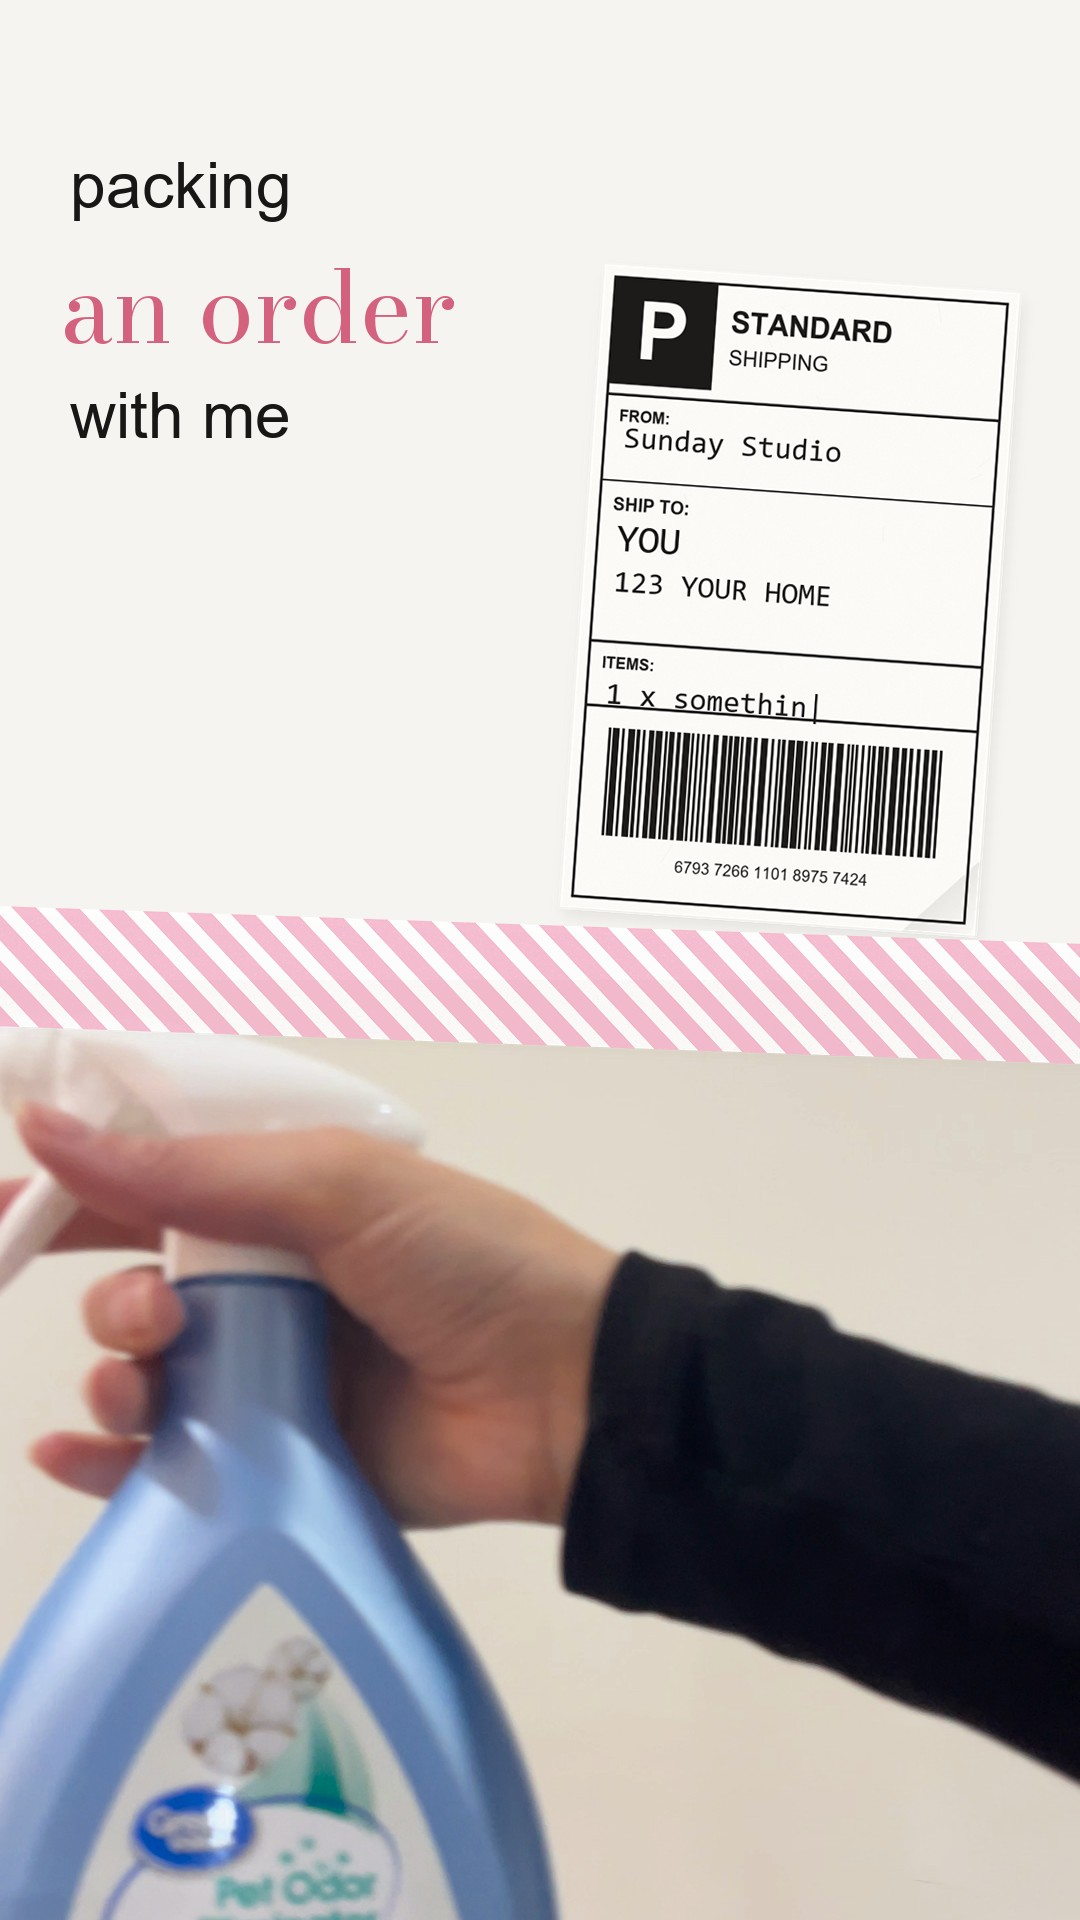
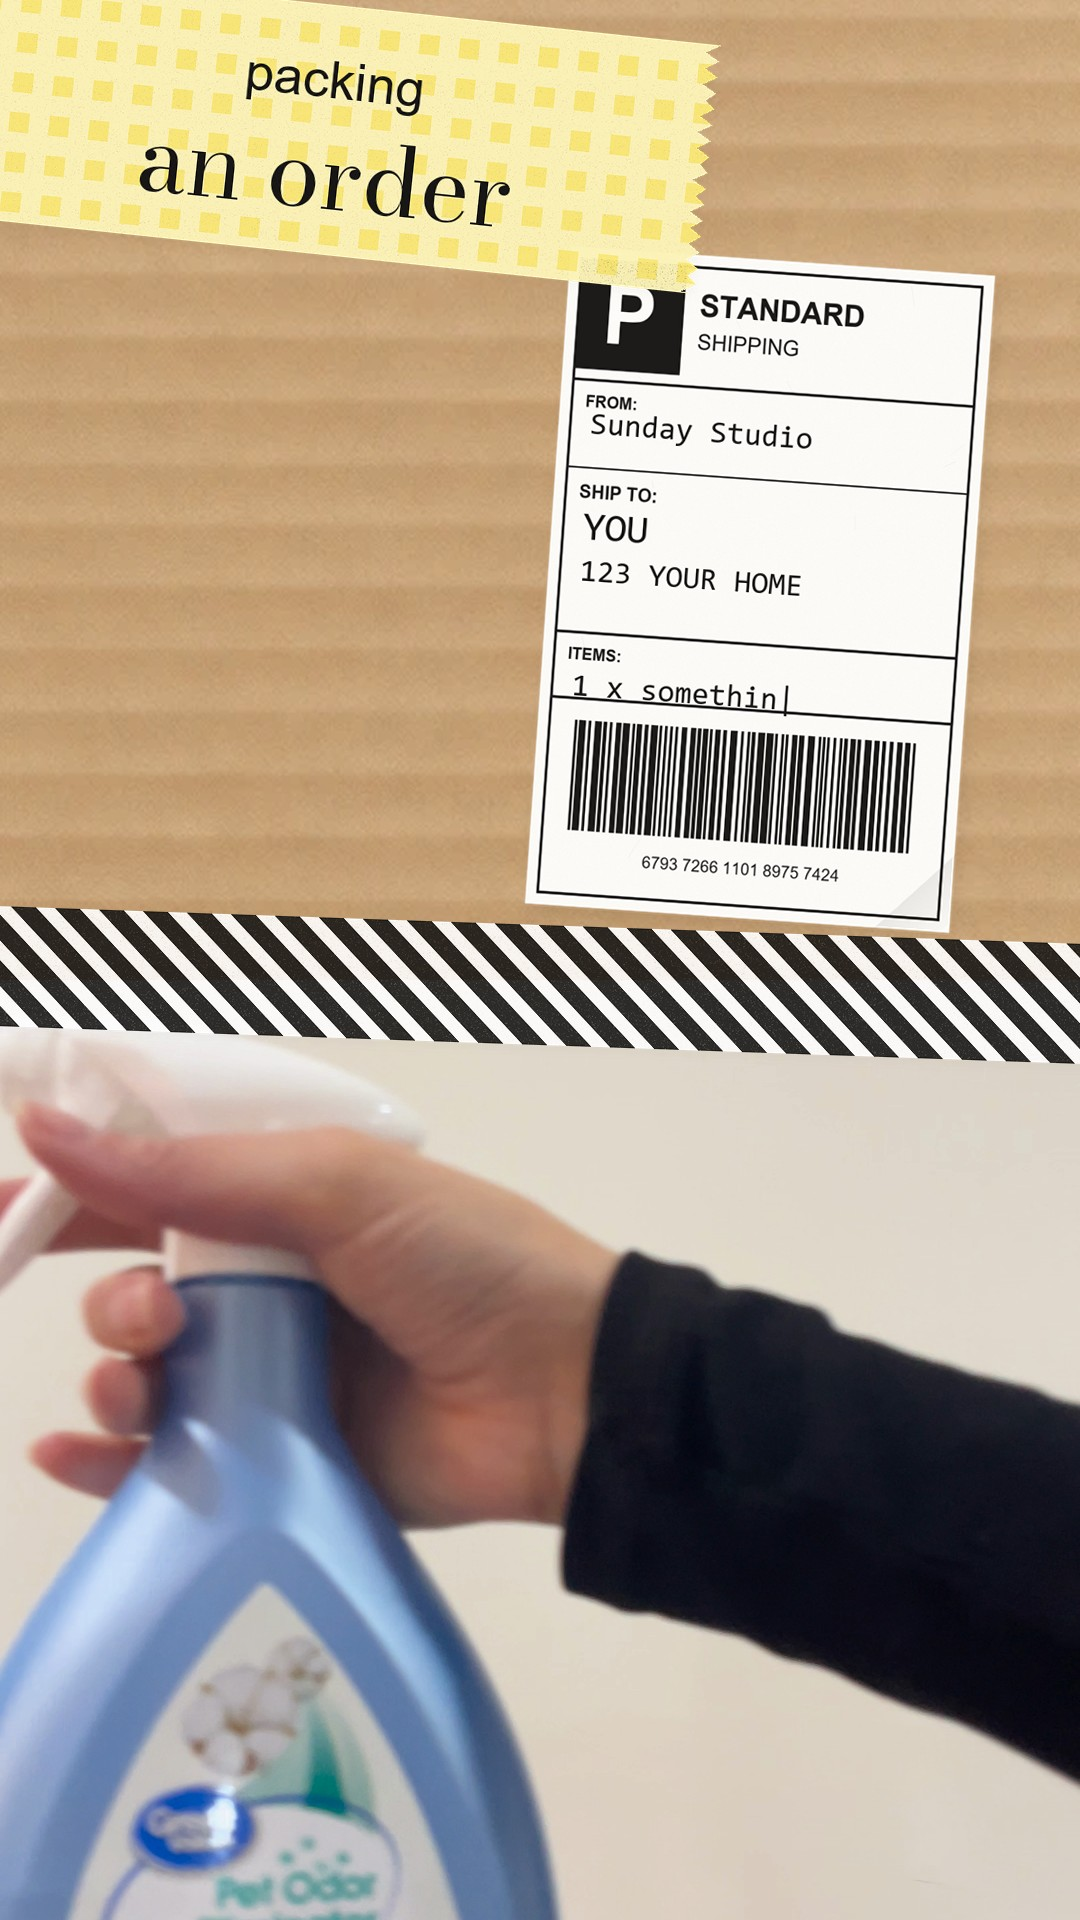
Reel Template Packs: #2 storyboard v3 (sage backdrop, bigger box, bold peanut outlines, seam tape, no pink washi, label on cardboard)

diff --git a/automation/reel-template-pack/build/storyboard_02.py b/automation/reel-template-pack/build/storyboard_02.py
@@ -14,6 +14,8 @@ OUT = E.PACK / '02-pack-an-order' / 'storyboard'; OUT.mkdir(parents=True, exist_
 PROPS = E.PACK / 'assets' / 'props'
 W, H = 1080, 1920
 ROSE = (212, 98, 127); INK = (24, 23, 22); WHITE = (255, 255, 255)
+BG = (199, 209, 187, 255)          # soft sage backdrop (not white)
+BLUE, BUTTER, SAGE, COBALT, TOMATO = (166, 206, 242), (250, 232, 120), (190, 214, 170), (52, 86, 196), (228, 88, 56)
 SANS, SERIF, MONO = 'C:/Windows/Fonts/arial.ttf', E.font_file('7580184437816675601'), 'C:/Windows/Fonts/consola.ttf'
 HAND = E.INKFREE
 TONE = 'zscale=t=linear:npl=100,format=gbrpf32le,zscale=p=bt709,tonemap=hable:desat=0,zscale=t=bt709:m=bt709:r=tv,format=yuv420p'
@@ -38,10 +40,11 @@ def word(img, xy, text, font, fill, anchor='la', shadow=False):
 
 def tape_words(img, c, small, big, rot=-3):
     """Words on a strip of white paper tape stuck to the box: small sans line + accent serif line."""
-    strip = C.torn_strip((720, 250), (252, 250, 246), seed=17, edges='lr')
+    strip = C.washi(760, 250, 'gingham', (BUTTER, WHITE), seed=17, alpha=250)
     d = ImageDraw.Draw(strip)
-    d.text((360, 62), small, font=F(SANS, 52), fill=INK, anchor='mm'); d.text((360, 158), big, font=F(SERIF, 96), fill=ROSE, anchor='mm')
-    place(img, C.shadow(strip, offset=(4, 8), blur=8, alpha=60), c, rot)
+    cx = strip.width / 2; cy = strip.height / 2
+    d.text((cx, cy - 50), small, font=F(SANS, 52), fill=INK, anchor='mm'); d.text((cx, cy + 44), big, font=F(SERIF, 96), fill=INK, anchor='mm')
+    place(img, strip, c, rot)
 
 def place(img, item, c, rot=0):
     it = item.rotate(rot, expand=True, resample=Image.BICUBIC)
@@ -62,7 +65,7 @@ def bordered(item, inner=WHITE, outer=ROSE, w1=14, w2=10):
 # ---- the open white box, turned upright to fill the frame, with its floor as a video spot ---------------------------------
 def open_box(colour='white'):
     box = prop(f'box-open-{colour}').rotate(-90, expand=True)           # landscape photo -> upright
-    s = 1.3 * W / box.width; box = box.resize((int(box.width * s), int(box.height * s)))
+    s = 1.6 * W / box.width; box = box.resize((int(box.width * s), int(box.height * s)))
     y0 = (H - box.height) // 2; xo = (W - box.width) // 2   # bigger than the frame: flaps run off the edges
     full = Image.open(PROPS / 'source' / 'box-open-top.webp')           # floor rect, measured on the source photo
     fx0, fy0, fx1, fy1 = 322, 262, 1132, 752; ph = full.height
@@ -79,7 +82,7 @@ def C_bbox_offset():
     return bb[0], bb[1]
 
 def box_scene(video, colour='kraft', floor_pad=0):
-    canvas = Image.new('RGBA', (W, H), (246, 244, 240, 255))
+    canvas = Image.new('RGBA', (W, H), BG)
     box, (xo, y0), fl = open_box(colour)
     x0, y1_, x1, y2 = fl
     canvas.alpha_composite(ImageOps.fit(video, (x1 - x0, y2 - y1_)), (x0, y1_))   # the clip on the box floor
@@ -91,18 +94,19 @@ def box_scene(video, colour='kraft', floor_pad=0):
 # ---- the frames ------------------------------------------------------------------------------------------------------------
 def f1():
     """The label types itself in (top) while the video picks the items (bottom); washi tape on the seam."""
-    im = Image.new('RGBA', (W, H), (246, 244, 240, 255))
+    im = Image.new('RGBA', (W, H), BG)
+    cb = prop('box-closed-top'); bb = cb.split()[3].point(lambda v: 255 if v > 250 else 0).getbbox()
+    cb = cb.crop((bb[0] + 40, bb[1] + 40, bb[2] - 40, bb[3] - 40)).convert('RGB').convert('RGBA')   # just the cardboard
+    im.alpha_composite(ImageOps.fit(cb, (W, 1000)), (0, 0))      # the label sits on real cardboard, edge to edge
     im.alpha_composite(footage('IMG_1439', 1.0, (W, 940)), (0, 980))
     lab = C.ship_label().resize((520, 780))
     d = ImageDraw.Draw(lab); m = F(MONO, 34)
     d.text((60, 205), 'Sunday Studio', font=m, fill=INK)
     d.text((60, 315), 'YOU', font=F(MONO, 44), fill=INK); d.text((60, 368), '123 YOUR HOME', font=m, fill=INK)
     d.text((60, 495), '1 x somethin|', font=m, fill=INK)
-    lab = lab.resize((460, 690)); place(im, lab, (790, 600), -4)
-    word(im, (70, 150), 'packing', F(SANS, 64), INK)
-    word(im, (60, 230), 'an order', F(SERIF, 100), ROSE)
-    word(im, (70, 380), 'with me', F(SANS, 64), INK)
-    place(im, C.washi(1300, 120, 'stripes', ((246, 182, 205), WHITE), seed=3), (540, 985), -2)
+    lab = lab.resize((470, 705)); place(im, lab, (760, 590), -4)
+    tape_words(im, (330, 130), 'packing', 'an order', -6)
+    place(im, C.washi(1300, 120, 'stripes', (INK, WHITE), seed=3), (540, 985), -2)
     return im
 
 def f2():
@@ -114,11 +118,11 @@ def f2():
 def f3():
     """One packing peanut drops in, with a colourful border."""
     im, fl = box_scene(footage('IMG_1439', 2.6, (W, H)))
-    pea = bordered(prop('packing-peanut').resize((360, 360)))
+    pea = bordered(prop('packing-peanut').resize((360, 360)), BUTTER, INK, 14, 8)
     place(im, pea, (560, 980), -14)
     d = ImageDraw.Draw(im)
     for k in range(3): d.line((470 + 60 * k, 640, 470 + 60 * k, 740), fill=INK + (255,), width=6)   # motion ticks
-    word(im, (W / 2, 1650), '+ a little padding', F(HAND, 64), INK, anchor='ma')
+    tape_words(im, (W / 2, 1740), '+ a little', 'padding', 3)
     return im
 
 def recolour(img, tint):
@@ -129,18 +133,22 @@ def f4():
     """Peanuts take over the screen (the transition)."""
     im, fl = box_scene(footage('IMG_1439', 2.6, (W, H)))
     r = random.Random(4); pea = prop('packing-peanut')
-    tints = [None, None, (246, 182, 205), (250, 232, 140), (200, 190, 245), None]
+    tints = [None, None, None, (250, 250, 246), (250, 232, 140), None, (250, 250, 246)]
+    styles = [(WHITE, INK, 12, 8), (BUTTER, INK, 14, 6), (WHITE, COBALT, 12, 10), (INK, WHITE, 6, 10),
+              (WHITE, TOMATO, 12, 10), (SAGE, INK, 12, 6), (WHITE, None, 16, 0)]
     for k in range(70):
         s = r.randint(230, 380); p = pea.resize((s, s))
         t = tints[k % len(tints)]
         if t: p = recolour(p, t)
-        if k % 9 == 0: p = bordered(p)
+        if k % 2 == 0:
+            inner, outer, w1, w2 = styles[(k // 2) % len(styles)]
+            p = bordered(p, inner, outer or inner, w1, max(1, w2))
         place(im, p, (r.randint(-60, W + 60), r.randint(-60, H + 60)), r.randint(0, 359))
     return im
 
 def f5(seal_in=False):
     """The little extra: pink shreds fill the box around a smaller video spot; the thank-you envelope slides in."""
-    im = Image.new('RGBA', (W, H), (246, 244, 240, 255))
+    im = Image.new('RGBA', (W, H), BG)
     box, (xo, y0), fl = open_box('kraft'); x0, y1_, x1, y2 = fl
     shreds = ImageOps.fit(white_shreds(), (x1 - x0, y2 - y1_))
     im.alpha_composite(shreds, (x0, y1_))
@@ -179,7 +187,7 @@ def closed_box_with_tape():
 
 def f6():
     """Sealed: the flaps have closed over the video, washi tape and the label are on."""
-    im = Image.new('RGBA', (W, H), (246, 244, 240, 255))
+    im = Image.new('RGBA', (W, H), BG)
     place(im, closed_box_with_tape(), (540, 1080))
     word(im, (70, 150), 'sealed +', F(SANS, 64), INK)
     word(im, (60, 230), 'on its way', F(SERIF, 110), ROSE)
@@ -187,13 +195,13 @@ def f6():
 
 def f7():
     """CTA: the same sealed box shrinks and slides partly off-screen, the focus moves to the product name."""
-    im = Image.new('RGBA', (W, H), (246, 244, 240, 255))
+    im = Image.new('RGBA', (W, H), BG)
     sealed = f6b(words=False, bg=(0, 0, 0, 0)); box_only = sealed.crop(sealed.getbbox())
     box_only = box_only.resize((int(box_only.width * 0.62), int(box_only.height * 0.62)))
     place(im, C.shadow(box_only, offset=(10, 16), blur=18, alpha=70), (300, 1500), -16)
-    word(im, (W / 2, 330), 'Spray cleaner', F(SERIF, 120), ROSE, anchor='ma')
+    place(im, C.washi(980, 300, 'gingham', (BUTTER, WHITE), seed=11, alpha=250), (W / 2, 450), -3)
+    word(im, (W / 2, 350), 'Spray cleaner', F(SERIF, 120), INK, anchor='ma')
     word(im, (W / 2, 500), 'shop at the link in my bio', F(SANS, 50), INK, anchor='ma')
-    place(im, C.washi(560, 90, 'gingham', ((250, 232, 120), WHITE), seed=11), (W / 2, 610), -3)
     return im
 
 
@@ -214,7 +222,7 @@ def _fold_piece(flap, edge, theta):
         a = piece.split()[3]; piece = piece.convert('RGB').point(lambda v: int(v * 0.86)).convert('RGBA'); piece.putalpha(a)
     return piece
 
-def box_state(video, short_deg=15, long_deg=15, bg=(246, 244, 240, 255)):
+def box_state(video, short_deg=15, long_deg=15, bg=BG):
     """The kraft box (landscape, as photographed) with the clip on its floor and the flaps at the given angles,
     then turned upright and scaled to fill the frame like open_box()."""
     cut = prop('box-open-kraft'); ox, oy = C_bbox_offset()
@@ -239,7 +247,7 @@ def box_state(video, short_deg=15, long_deg=15, bg=(246, 244, 240, 255)):
             ImageDraw.Draw(m).rectangle((pos[0] + 10, pos[1] + 14, pos[0] + p.width + 10, pos[1] + p.height + 14), fill=110)
             sh.putalpha(m.filter(ImageFilter.GaussianBlur(16))); land.alpha_composite(sh)
         land.alpha_composite(p, (int(pos[0]), int(pos[1])))
-    up = land.rotate(-90, expand=True); s = 1.3 * W / up.width
+    up = land.rotate(-90, expand=True); s = 1.6 * W / up.width
     up = up.resize((int(up.width * s), int(up.height * s)))
     canvas = Image.new('RGBA', (W, H), bg)
     canvas.alpha_composite(up, ((W - up.width) // 2, (H - up.height) // 2))
@@ -251,11 +259,12 @@ def f6a():
     tape_words(im, (W / 2, 160), 'all', 'tucked in', -2)
     return im
 
-def f6b(words=True, bg=(246, 244, 240, 255)):
+def f6b(words=True, bg=BG):
     """Closed: washi tape zips across the seam, the label slaps on."""
     im = box_state(footage('IMG_1447', 1.0, (W, H)), 180, 180, bg)
-    place(im, C.washi(1150, 140, 'dots', ((166, 206, 242), WHITE), seed=8), (540, 900), 82)
-    place(im, C.washi(1150, 140, 'hearts', (WHITE, ROSE), seed=9), (560, 980), 98)
+    bare = box_state(footage('IMG_1447', 1.0, (W, H)), 180, 180, (0, 0, 0, 0)); bb = bare.getbbox()
+    cx = (bb[0] + bb[2]) / 2; length = bb[3] - bb[1] + 30   # along the seam, overhanging the edges a little
+    place(im, C.washi(length, 150, 'dots', (BLUE, WHITE), seed=8, alpha=245), (cx, (bb[1] + bb[3]) / 2), 90)
     lab = C.ship_label().resize((460, 690)); d = ImageDraw.Draw(lab); m = F(MONO, 29)
     d.text((52, 180), 'Sunday Studio', font=m, fill=INK); d.text((52, 278), 'YOU', font=F(MONO, 38), fill=INK)
     d.text((52, 325), '123 YOUR HOME', font=m, fill=INK); d.text((52, 440), '1 x something nice', font=m, fill=INK)
